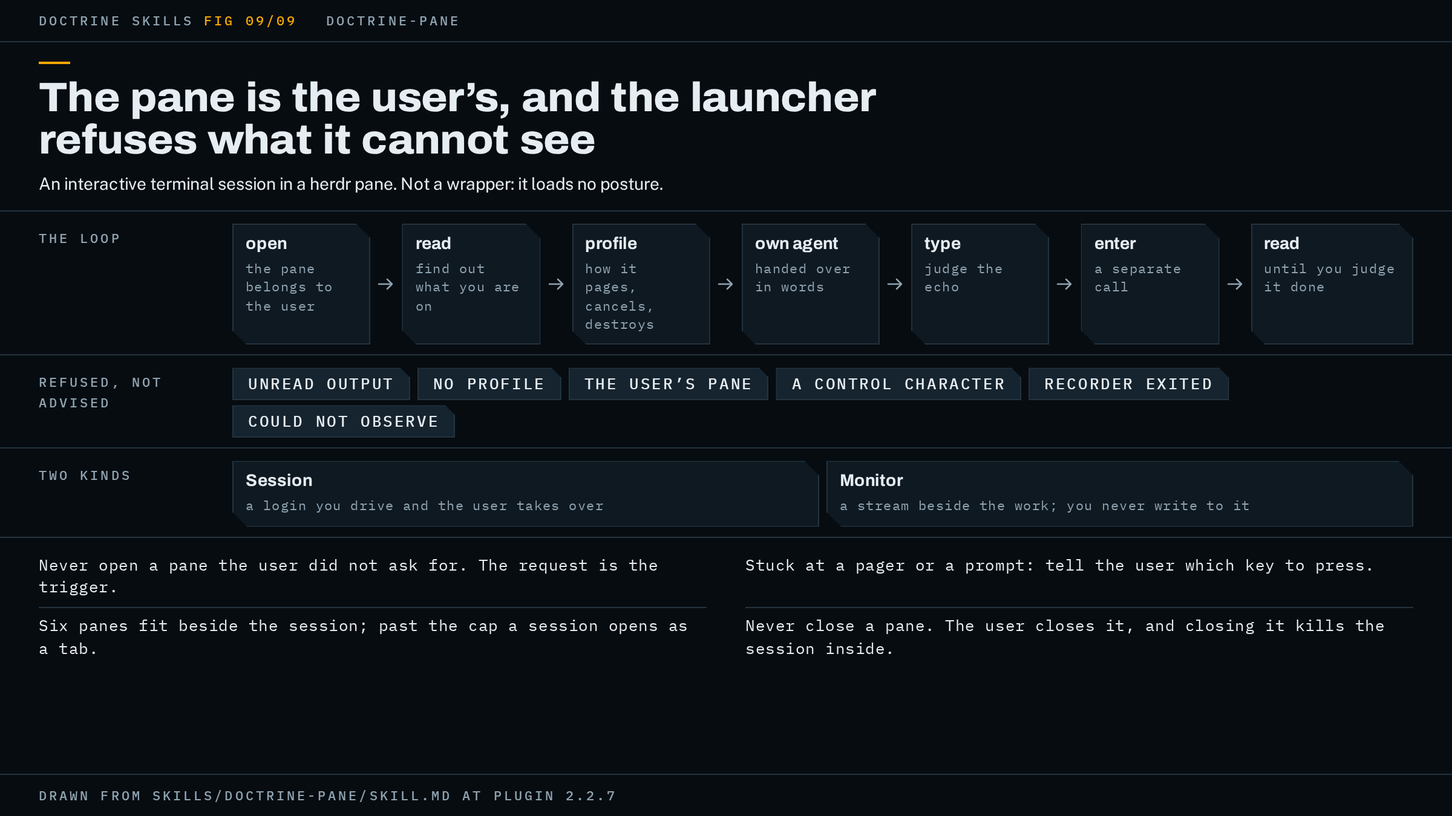
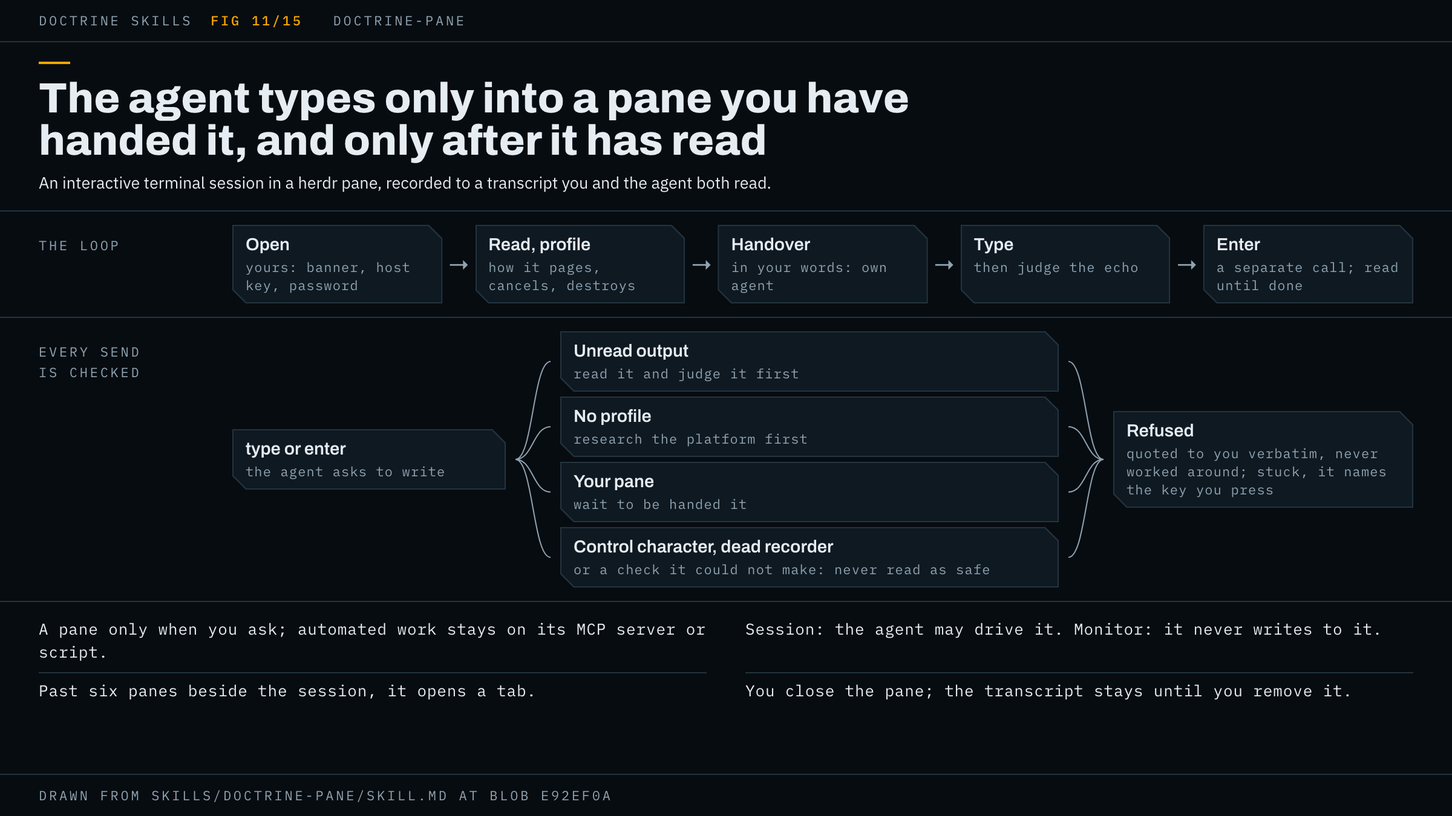
doctrine-pane page and figure, redrawn from the skill as it stands

diff --git a/docs/skills/figures/doctrine-pane.html b/docs/skills/figures/doctrine-pane.html
@@ -1,0 +1,60 @@
+<!doctype html>
+<!-- The doctrine-pane figure, started from specimen.html. Render:
+     node docs/skills/figures/render.mjs docs/skills/figures/doctrine-pane.html docs/skills/doctrine-pane.png -->
+<html lang="en">
+<head>
+<meta charset="utf-8">
+<meta name="drawn-from" content="skills/doctrine-pane/SKILL.md@e92ef0aae52e2759daf14c6be0830cc5bcad5f0c">
+<title>Figure: doctrine-pane</title>
+<link rel="stylesheet" href="figure.css">
+</head>
+<body>
+<header class="head"><span>Doctrine skills</span><span class="no">FIG 11/15</span><span>doctrine-pane</span></header>
+
+<section class="title">
+  <h1>The agent types only into a pane you have handed it, and only after it has read</h1>
+  <p>An interactive terminal session in a herdr pane, recorded to a transcript you and the agent both read.</p>
+</section>
+
+<section class="row">
+  <div class="label">The loop</div>
+  <div class="flow">
+    <div class="box"><b>Open</b><span>yours: banner, host key, password</span></div>
+    <div class="arrow">→</div>
+    <div class="box"><b>Read, profile</b><span>how it pages, cancels, destroys</span></div>
+    <div class="arrow">→</div>
+    <div class="box"><b>Handover</b><span>in your words: own agent</span></div>
+    <div class="arrow">→</div>
+    <div class="box"><b>Type</b><span>then judge the echo</span></div>
+    <div class="arrow">→</div>
+    <div class="box"><b>Enter</b><span>a separate call; read until done</span></div>
+  </div>
+</section>
+
+<section class="row">
+  <div class="label">Every send<br>is checked</div>
+  <div class="fan">
+    <div class="col" style="width:226px"><div class="box" id="send"><b>type or enter</b><span>the agent asks to write</span></div></div>
+    <svg class="wires" data-from="#send" data-to=".ref"></svg>
+    <div class="col" style="width:412px">
+      <div class="box ref"><b>Unread output</b><span>read it and judge it first</span></div>
+      <div class="box ref"><b>No profile</b><span>research the platform first</span></div>
+      <div class="box ref"><b>Your pane</b><span>wait to be handed it</span></div>
+      <div class="box ref"><b>Control character, dead recorder</b><span>or a check it could not make: never read as safe</span></div>
+    </div>
+    <svg class="wires" data-from=".ref" data-to="#out"></svg>
+    <div class="col" style="flex:1"><div class="box" id="out"><b>Refused</b><span>quoted to you verbatim, never worked around; stuck, it names the key you press</span></div></div>
+  </div>
+</section>
+
+<section class="notes">
+  <p>A pane only when you ask; automated work stays on its MCP server or script.</p>
+  <p>Session: the agent may drive it. Monitor: it never writes to it.</p>
+  <p>Past six panes beside the session, it opens a tab.</p>
+  <p>You close the pane; the transcript stays until you remove it.</p>
+</section>
+
+<footer class="foot">Drawn from skills/doctrine-pane/SKILL.md at blob e92ef0a</footer>
+<script src="figure.js"></script>
+</body>
+</html>

diff --git a/docs/skills/doctrine-pane.md b/docs/skills/doctrine-pane.md
@@ -1,24 +1,33 @@
 # doctrine-pane
 
-An interactive terminal session in a herdr pane, so you see what the agent sees on a device and can take the keyboard whenever you want it. It is not a wrapper: it does not load the doctrine posture, and it is usually invoked in the middle of some other task.
+The agent runs an interactive terminal session in a herdr pane beside your session, so you see what it sees and can take the keyboard at any moment. It is not a wrapper. It does not load the doctrine posture, because it is usually called in the middle of other work to run a few commands, and a doctrine run can call it too: `doctrine-debug` names it for a bug that lives on a device you log into.
 
-![A launcher that opens a recorded terminal session in a pane beside your Claude Code session, with the agent reading the transcript and the user holding the keyboard by default.](doctrine-pane.png)
+![The doctrine-pane loop: you open the pane and answer the login, the agent reads and profiles the platform, you hand the pane over, and the agent types, judges the echo, then presses Enter in a separate call. Every send is checked, and is refused on unread output, a missing profile, a pane that is yours, a control character, a dead recorder or a check it could not make. A refusal is quoted to you verbatim](doctrine-pane.png)
 
-## When to use it, and when not
+## When it fires
 
-Use it when you want to watch a login as it happens: an SSH session to a box, a router or switch console, a log you want tailed beside the work. The split is yours and the skill does not re-decide it. A request to see the connects gets panes, and the number of devices does not change that: ten devices you asked to watch is ten sessions. Work you did not ask to watch stays where the project already runs it, an MCP server or a script, because parsed output is what makes many results comparable. The skill opens no pane on its own judgement. "Pop a pane" is a request, and everything else is not.
+Ask for it in its own terms: pop a pane, ssh into a box, log into a router or switch, get onto a console, or tail or monitor a log while the agent works. Those requests open a pane. Nothing else does: the skill has no heuristic for "this looks interactive", and it never opens a pane you did not ask for.
 
-There are two kinds of pane, and only one has state. A Session is a login the agent may drive and you may take over. A Monitor is a stream beside the work, `docker logs -f` or a firewall tail, that the agent never writes to and that you interrupt by typing in it. A Session on a device means the agent stops making automated calls to that device until the pane closes, so two writers never interleave into one transcript. That does not make the device free: a cached connection or an operation in flight can still hold it, and the connect then fails in the pane where you can see it. A Monitor stops nothing, since the case it exists for is watching a deploy while the agent runs it.
+The test is your request, never the shape of the work. Ten devices you asked to watch get ten sessions. One device you did not ask to watch gets a script. Work nobody asked to watch stays where the project already runs it, on an MCP server or a plain command, because parsed output is what makes many results comparable.
 
-A pane needs a real PTY. The launcher runs your connect command under `script(1)`, which records everything that crosses the terminal into a transcript file the agent reads. herdr provides the pane itself: the split beside your session, the sidebar tab when the column is full, and the calls that send text and keys into it. Without herdr there is no pane, and the skill refuses rather than running the session some other way. In a doctrine run that refusal is recorded as a step that did not run, never as one that passed, and the run continues by its non-interactive path under doctrine step 3.
+There are two kinds of pane:
 
-## What it asks you first
+- A **Session** is a login the agent may drive and you may take over.
+- A **Monitor** is a stream beside the work, such as `docker logs -f` or a firewall tail. The agent never writes to it. You interrupt it the way you interrupt any terminal, by typing in it.
 
-Nothing, as a skill. There is no question round, because you are usually mid-task and loading a posture to run two commands would be wrong. What it needs is in your prompt: which device or host, and that you want a pane. The connect command is not the agent's to invent. This plugin carries no device-vendor knowledge, so the agent takes the connect command from the project you are in, its docs, its tooling, its inventory, and lets it read its own credentials from its own paths. The agent handles a path, never a secret. If your project has no written-down way to reach the device, say the command in the prompt.
+## What it asks you
 
-## How it runs
+It asks no questions up front. It needs three things from you during the session:
 
-The launcher is `node <plugin-root>/hooks/dctr-pane.mjs`, two directories above the skill's own directory. It has six subcommands:
+- **The login.** The pane is yours from the moment it opens. The connect banner, an unknown-host-key question and any password prompt land in your window, and you answer them. The agent never types a password.
+- **The handover.** The agent types only after you say, in words, that the pane is its turn. You take it back the same way.
+- **A key, when it is stuck.** The agent cannot send control keys. At a half-typed line, a pager it must not dismiss, or a confirmation it must not answer, it tells you which key to press. A configuration block that must arrive as one paste is the same case: the agent shows you the exact text and you paste it.
+
+The connect command is not the agent's to invent. The plugin carries no knowledge of any device vendor, so the agent takes the command from your project's docs, tooling or inventory, and the command reads its own credentials from its own paths. The agent handles a path, never a secret. If your project has no written way to reach the device, give the command in your prompt.
+
+## How a session runs
+
+The launcher is `node <plugin-root>/hooks/dctr-pane.mjs`, where `<plugin-root>` is two directories above the skill's own directory. It has six commands:
 
 ```text
 open    <label> [<tee-file>] <connect-command>
@@ -29,95 +38,110 @@ enter   <tee-file>
 own     <tee-file> agent|user
 ```
 
-`open` splits a pane beside your session, writes a marker for it, and runs the connect command in it under the recorder. The pane is yours from the moment it exists: the connect banner, an unknown-host-key question and any password prompt all land in that window, and none of them are the agent's to answer. If a password is wanted, you type it. Input logging is never enabled, so what you type at a password prompt does not reach the transcript. The transcript and the session record are created readable only by you.
+The tee file is the transcript. `open` splits a pane, runs the connect command in it under `script(1)`, which records everything that crosses the terminal into that file, and prints the pane id. Keystroke logging is never switched on, so what you type at a password prompt does not reach the transcript. The transcript and its session record, `<tee-file>.state.json`, which holds the owner, the read position and the profile, are readable only by you.
 
-The tee file is the transcript. Omit it and the launcher picks a file named for the label under `dctr-pane-logs` in your temporary directory, and prints the path as `tee=<path>`. Nothing removes that file when the session ends, and a label is sanitized down to letters, digits, dash and underscore, so two labels can land on one file and a repeated label reuses an earlier session's name. Give an explicit path whenever the transcript matters.
+The agent then works through one loop:
 
-Six panes fit beside the session. That cap counts the run's dispatched seats and gate panes alongside interactive ones, and every placement happens under the same lock. Past the cap a session opens as a tab, listed in herdr's sidebar, watched and taken over the same way. The launcher prints `overflow=tab` when it does that, so the agent can tell you which it was. It cannot close anything for you.
+1. **`open`.** The pane belongs to you.
+2. **`read`** the banner, which is how the agent learns what it is on.
+3. **Profile the platform** before typing anything: what it is, how it pages, how to cancel on it, and what is destructive on it. The agent researches this and records it with `profile`. `type` and `enter` refuse until a profile exists. `profile` refuses any text under 80 characters. It cannot judge whether the research was good, but it prints the profile where you can see it.
+4. **You hand the pane over**, and the agent runs `own <tee-file> agent`.
+5. **`type`, then `enter`, as two separate calls.** The agent reads the echo of what it typed before it presses Enter.
+6. **`read` until the agent judges the command finished.**
 
-The marker lives in a directory the session's cleanup does not sweep. That is why a pane survives the agent's session ending: a log you are watching does not die when the agent stops, and neither does its transcript.
+The launcher enforces rules, and the agent interprets the screen. No code parses the terminal. An earlier version decided in code what a prompt was and when a command had finished, and it was wrong on real hardware within two commands: a shell prompt is an arbitrary string, a pager prompt looks like a device prompt, and output going quiet does not mean a command ended.
 
-The launcher enforces; the agent interprets. No code in it parses the terminal. An earlier version decided in code what a prompt was and whether a command had finished, and it was wrong on real hardware within two commands: a shell prompt is an arbitrary string, a pager prompt looks like a device prompt, and output going quiet does not mean a command ended. The agent reads bytes and judges. What the launcher refuses, none of it advisory: typing while the session has unread output, typing before the session has a profile, typing when the pane is yours, any control character in the text (a bare carriage return is Enter), writing after the recorder has exited (the connection closed and the pane is now a shell on the agent's own machine), and writing when it could not observe something, since a failed lookup is "I could not look", never "safe". These are checks before sending: output can still arrive, or the recorder can exit, between the final check and the keystroke, and the launcher cannot guarantee the terminal's state at that instant. A refusal prints `dctr-pane: <reason>` and exits non-zero.
+The launcher refuses to send when:
 
-The loop the agent follows is: `open`, `read` to see what it is on, then stop and profile the platform before typing anything. `profile` records what the platform is, how it pages, how to cancel on it and what is destructive on it, and `type` and `enter` refuse until it exists. The launcher cannot judge whether that research was good, so it enforces a floor instead: a profile shorter than 80 characters is refused. Then you hand the pane over in words and the agent runs `own <tee> agent`. `own` does not clear unread output, so the agent's first move after a handover is to read what you did. Your typing is recorded only where the terminal echoed it, and keys that produce no echo, a space at a pager, Ctrl-C, an arrow, leave no trace. When the agent does not know what you pressed, it says so rather than reconstructing a plausible sequence.
+- the session has **unread output**, since those bytes may be the device, a pager, or you halfway through a command;
+- the session has **no profile**;
+- the pane is **yours**;
+- the text holds a **control character**, since a bare carriage return is Enter;
+- the **recorder has exited**, which means the connection closed and the pane is now a shell on the agent's own machine;
+- it **could not check** something, since a failed lookup means "I could not look", never "safe".
 
-`type` sends text and stops. `enter` is a separate call, always, so the echo is judged first. Then `read` until the agent judges the command finished. The agent cannot send control keys at all, by design: a launcher that could send Ctrl-C, Ctrl-D, Escape at a confirmation or a single key at a pager could answer a prompt you never saw. When it is stuck it tells you which key to press. A configuration block that must arrive as one paste is the same case: `type` refuses newlines, so the agent puts the exact text in front of you and you paste it.
+The unread-output check covers what was on screen when the agent asked and anything that arrived while the launcher was checking. Output can still land in the moment between the last check and the keystroke, and no lock can prevent that, because the device is not part of the transaction.
 
-When you take the pane back, the agent abandons the rest of its sequence rather than resuming, because you may have changed the device under it.
+A refusal prints `dctr-pane: <reason>` and exits 1. The agent quotes every refusal to you exactly as printed and never works around it. When `read` refuses, it does not read the transcript file directly, and when `open` refuses, it does not start the session another way.
 
-The session ends when you close the pane. The agent never closes one. Closing the pane kills the session inside it. The transcript stays on disk, at the default path or the one you gave, until you remove it, and so does the session record beside it, `<transcript>.state.json`, which holds ownership, the read cursor and the profile; remove that too when you are done. One thing does end a transcript: opening again on the same path truncates it, once the launcher has established that no live pane is using it.
+`own agent` does not mark your output as read, so after a handover the agent's first step is to read what you did. That transcript is its only view of your work, and it shows only what the terminal echoed. Keys that echo nothing, such as a space at a pager, Ctrl-C, an arrow or Tab, leave no trace. When the agent cannot tell what you pressed, it says so instead of guessing a sequence from the effects. When you take the pane back, the agent drops the rest of its plan, because you may have changed the device under it.
 
-## What is checked
+## Panes, tabs and transcripts
 
-This skill has no gate loop. What is checked is the launcher. `node hooks/dctr-pane.selftest.mjs` is its tamper test: every refusal trips and calls herdr zero times, proved by a tripwire `herdr` on PATH that counts invocations; a valid session is not refused; the broken fixtures are proved defective without calling the checker; and both `script(1)` invocations are asserted, so the macOS argument shape is checked without a Mac. `node hooks/dctr-mutations.mjs` reverts each named repair in a copy of the tree and fails if no check notices; several of its mutations target this launcher. CI runs both on every push, as part of the fifteen checks [docs/how-this-is-tested.md](../how-this-is-tested.md) lists. A doctrine phase that uses the pane still runs its own gate: the pane is where a command is driven, not a substitute for the checks the phase owes.
+Six panes fit beside your session. The cap counts the run's dispatched seats and gate panes as well as interactive panes, and every placement takes the same lock. Past six, a session opens as a tab listed in herdr's sidebar, which you watch and take over the same way. The launcher prints `overflow=tab` when that happens. It never closes a pane to make room.
 
-## A worked example
+If you omit the tee file, the launcher picks one named for the label under `dctr-pane-logs` in your temporary directory and prints it as `tee=<path>`. Labels are reduced to letters, digits, dash and underscore, so two labels can share a file, and a repeated label reuses an earlier session's file. Give an explicit path whenever the transcript matters.
 
-This example is illustrative: it shows the shape of a run, not a recorded one.
+## One device, one connection
 
-You are mid-way through a debugging task and say: "pop a pane and ssh into the edge switch, I want to watch." The agent finds the connect command in the project's inventory and opens the pane with an explicit transcript path, because the label `edge` has been used before.
+While a Session pane is open on a device, the agent makes no automated calls to that device, so two writers never interleave in one transcript. That does not free the device. A cached connection or an operation already in flight can still hold it, and the connect then fails in the pane, where you can see it.
+
+A Monitor stops nothing. Its main use is watching a deploy while the agent runs it, and a rule that paused the deploy until the monitor closed would defeat the point.
+
+Inside a doctrine run, only the orchestrator opens panes, never a dispatched seat, and never while a wave that touches that device is still out.
+
+## How it ends
+
+You close the pane. The agent never does, and closing the pane kills the session inside it. The pane outlives the agent's session, so a log you are watching keeps running after the agent stops.
+
+The transcript and its `.state.json` record stay on disk, at the default path or yours, until you remove them. Nothing in the plugin cleans them up. One thing does end a transcript: `open` on the same path truncates it, once the launcher has confirmed no live pane is using it.
+
+When the skill cannot open a pane, there is no weaker fallback. The agent says so and runs any command it needs non-interactively. In a doctrine run, the interactive step is recorded as not run, never as passed.
+
+## An example
+
+This shows the shape of a session, not a recorded one. `pane` stands for `node <plugin-root>/hooks/dctr-pane.mjs`.
+
+You say: "pop a pane and ssh into the edge switch, I want to watch." The agent finds the connect command in the project's inventory and gives an explicit transcript path, because the label `edge` was used before.
 
 ```text
-$ node hooks/dctr-pane.mjs open edge /tmp/edge-2026-09-10.log "ssh netops@edge1"
+$ pane open edge /tmp/edge.log "ssh netops@edge1"
 pane=ws1:12
-owner=user tee=/tmp/edge-2026-09-10.log
+owner=user tee=/tmp/edge.log
 --- session so far (judge it yourself; nothing here was parsed) ---
-The authenticity of host 'edge1' can't be established.
 Are you sure you want to continue connecting (yes/no/[fingerprint])?
 ```
 
-A pane has appeared beside your session, unfocused. The host-key question is yours. You click into the pane, type `yes`, then the password, and the banner arrives. The agent runs `read`.
+You answer the host-key question and type the password in the pane. The agent reads the banner, sees Junos, and records a profile:
 
 ```text
-$ node hooks/dctr-pane.mjs read /tmp/edge-2026-09-10.log
-JUNOS 21.4R3-S7.8 built 2023-08-18 07:42:19 UTC
-netops@edge1>
---- read 214 new bytes; owner=user; cursor=402
+$ pane profile /tmp/edge.log "Juniper Junos 21.4 CLI. Pages with ---(more)---, space advances and q quits. Ctrl-C cancels a running command. commit and request system reboot are destructive."
 ```
 
-The agent now knows what it is on. Before typing anything it researches how that platform pages, how to cancel, and what is destructive, and records the result.
+You say "it's yours." The agent runs `own /tmp/edge.log agent`, reads what you did, then types and checks the echo before pressing Enter:
 
 ```text
-$ node hooks/dctr-pane.mjs profile /tmp/edge-2026-09-10.log "Juniper Junos 21.4 CLI. Pages with ---(more)---, space advances and q quits. Ctrl-C cancels a running command. commit and request system reboot are destructive."
-profile recorded for ws1:12:
-Juniper Junos 21.4 CLI. Pages with ---(more)---, space advances and q quits. Ctrl-C cancels a running command. commit and request system reboot are destructive.
-```
-
-You say "go ahead, it's yours." The agent runs `own /tmp/edge-2026-09-10.log agent` and gets `owner=agent`. Handover does not clear unread output, so it runs `read` first and judges what you did. Then it types a command and judges the echo before pressing Enter.
-
-```text
-$ node hooks/dctr-pane.mjs type /tmp/edge-2026-09-10.log "show interfaces terse | no-more"
+$ pane type /tmp/edge.log "show interfaces terse | no-more"
 show interfaces terse | no-more
 --- typed "show interfaces terse | no-more"; ENTER NOT SENT. Judge the echo above, then `enter`.
-$ node hooks/dctr-pane.mjs enter /tmp/edge-2026-09-10.log
+$ pane enter /tmp/edge.log
 --- enter sent. Output may still be arriving; `read` again until you judge it finished.
 ```
 
-The output lands in the pane where you can read it as it arrives, and in the transcript, which the agent reads until it judges the prompt has returned. Say you notice something and type a command yourself. The agent's next `type` is refused: `` dctr-pane: 96 bytes of unread output; run `read` and judge it before typing ``. It reads, sees your command and its output, and reports what it saw; if you pressed a key that left no echo, it says it cannot see that. If the agent hits a pager it must not dismiss, it asks you to press a key rather than working around it. When the session is done, you close the pane. The agent reports the transcript path and leaves the file where it is.
-
-## How to invoke it
-
-The trigger is any request to pop a pane, ssh into a box, log into a router or switch, get onto a console, or tail or monitor a log while the agent works. A sample prompt:
-
-```text
-pop a pane and ssh into radprox01, I want to watch while you check the disk
-```
+If you then type a command yourself, the agent's next `type` is refused with `` dctr-pane: 96 bytes of unread output; run `read` and judge it before typing ``. It reads, tells you what it saw, and says so if you pressed a key that left no echo. When you are done, you close the pane, and the agent tells you where the transcript is.
 
 ## Requirements
 
-herdr 0.8.2 or later, with Claude Code or Codex CLI running inside it. On Codex the doctrine hooks must be installed, since that install is what lets a command in Codex's sandbox reach herdr (the README's Codex section gives the command). The launcher reads `HERDR_ENV` (must be `1`), `HERDR_WORKSPACE_ID` and `HERDR_PANE_ID` to find the session's pane, and the session id (`CLAUDE_CODE_SESSION_ID`, else Codex's `CODEX_SESSION_ID`) to count the pane against the same cap and lock the seat and gate hooks use. Without any of them it refuses. It also refuses when `DCTR_VIEW_REQUEST_DIR` is set, which marks a contained session, because a pane is a host process. `TMPDIR` decides where a default transcript goes. Outside herdr the skill does not degrade into a weaker version of itself: there is no pane, the agent says so, and any command it needs runs non-interactively with the interactive step recorded as not run. [docs/requirements.md](../requirements.md) and [docs/watching-a-run.md](../watching-a-run.md) cover the herdr setup.
+- herdr 0.8.2 or later, with Claude Code or Codex CLI running inside a herdr pane. The launcher refuses unless `HERDR_ENV` is `1` and `HERDR_WORKSPACE_ID` is set, and `open` also needs `HERDR_PANE_ID`.
+- A session id, `CLAUDE_CODE_SESSION_ID` or Codex's `CODEX_SESSION_ID`, so the pane counts against the same cap and lock as seats and gates. Without one it refuses.
+- Not a contained session: with `DCTR_VIEW_REQUEST_DIR` set it refuses, because a pane is a process on the host.
+- On Codex, the doctrine hooks, which you install yourself with `node <plugin-root>/hooks/dctr-codex.mjs install`. That install lets a command in Codex's sandbox reach herdr. The pane runs on the host, outside Codex's sandbox, so whatever is typed into it runs unsandboxed.
 
-## Red flags
+[docs/requirements.md](../requirements.md) and [docs/watching-a-run.md](../watching-a-run.md) cover the herdr setup.
 
-Signs the skill is being misused, in your terms:
+## How it is checked
+
+The skill has no review loop of its own. The launcher has a tamper test, `node hooks/dctr-pane.selftest.mjs`, which CI runs on every push: every refusal trips and calls herdr zero times, a valid session is not refused, the broken fixtures are shown to be broken without the launcher, and both the macOS and Linux forms of `script(1)` are asserted. A doctrine phase that uses a pane still runs its own gate.
+
+## Signs it is being misused
 
 - A pane opened because the work looked interactive, when you did not ask for one.
-- The agent typing before it has profiled the platform, on the grounds that it already knows it.
-- The agent reading bytes you typed mid-command, judging them harmless, and typing over them.
-- A report of what you pressed, reconstructed from backspaces and bells, instead of the agent saying it cannot see it.
-- `enter` sent without the agent having read the echo `type` returned.
-- A vendor's pager idiom, prompt pattern or destructive-command list written into this plugin.
-- A refusal worked around, instead of the agent telling you which key to press.
+- The agent typing before it profiled the platform, because it thought it already knew it.
+- The agent reading bytes you were typing, judging them harmless, and typing over them.
+- An account of what you pressed, rebuilt from backspaces and bells.
+- `enter` sent before the agent read the echo of `type`.
+- A vendor's pager idiom, prompt pattern or list of destructive commands written into the plugin.
+- A refusal worked around instead of turned into a key for you to press.
 - A run that wanted a pane, could not have one, and reported the step as passed.
 
-The specification is [`skills/doctrine-pane/SKILL.md`](../../skills/doctrine-pane/SKILL.md); trust it over this page wherever the two disagree.
+The specification is [`skills/doctrine-pane/SKILL.md`](../../skills/doctrine-pane/SKILL.md). Where this page and the specification disagree, trust the specification.
